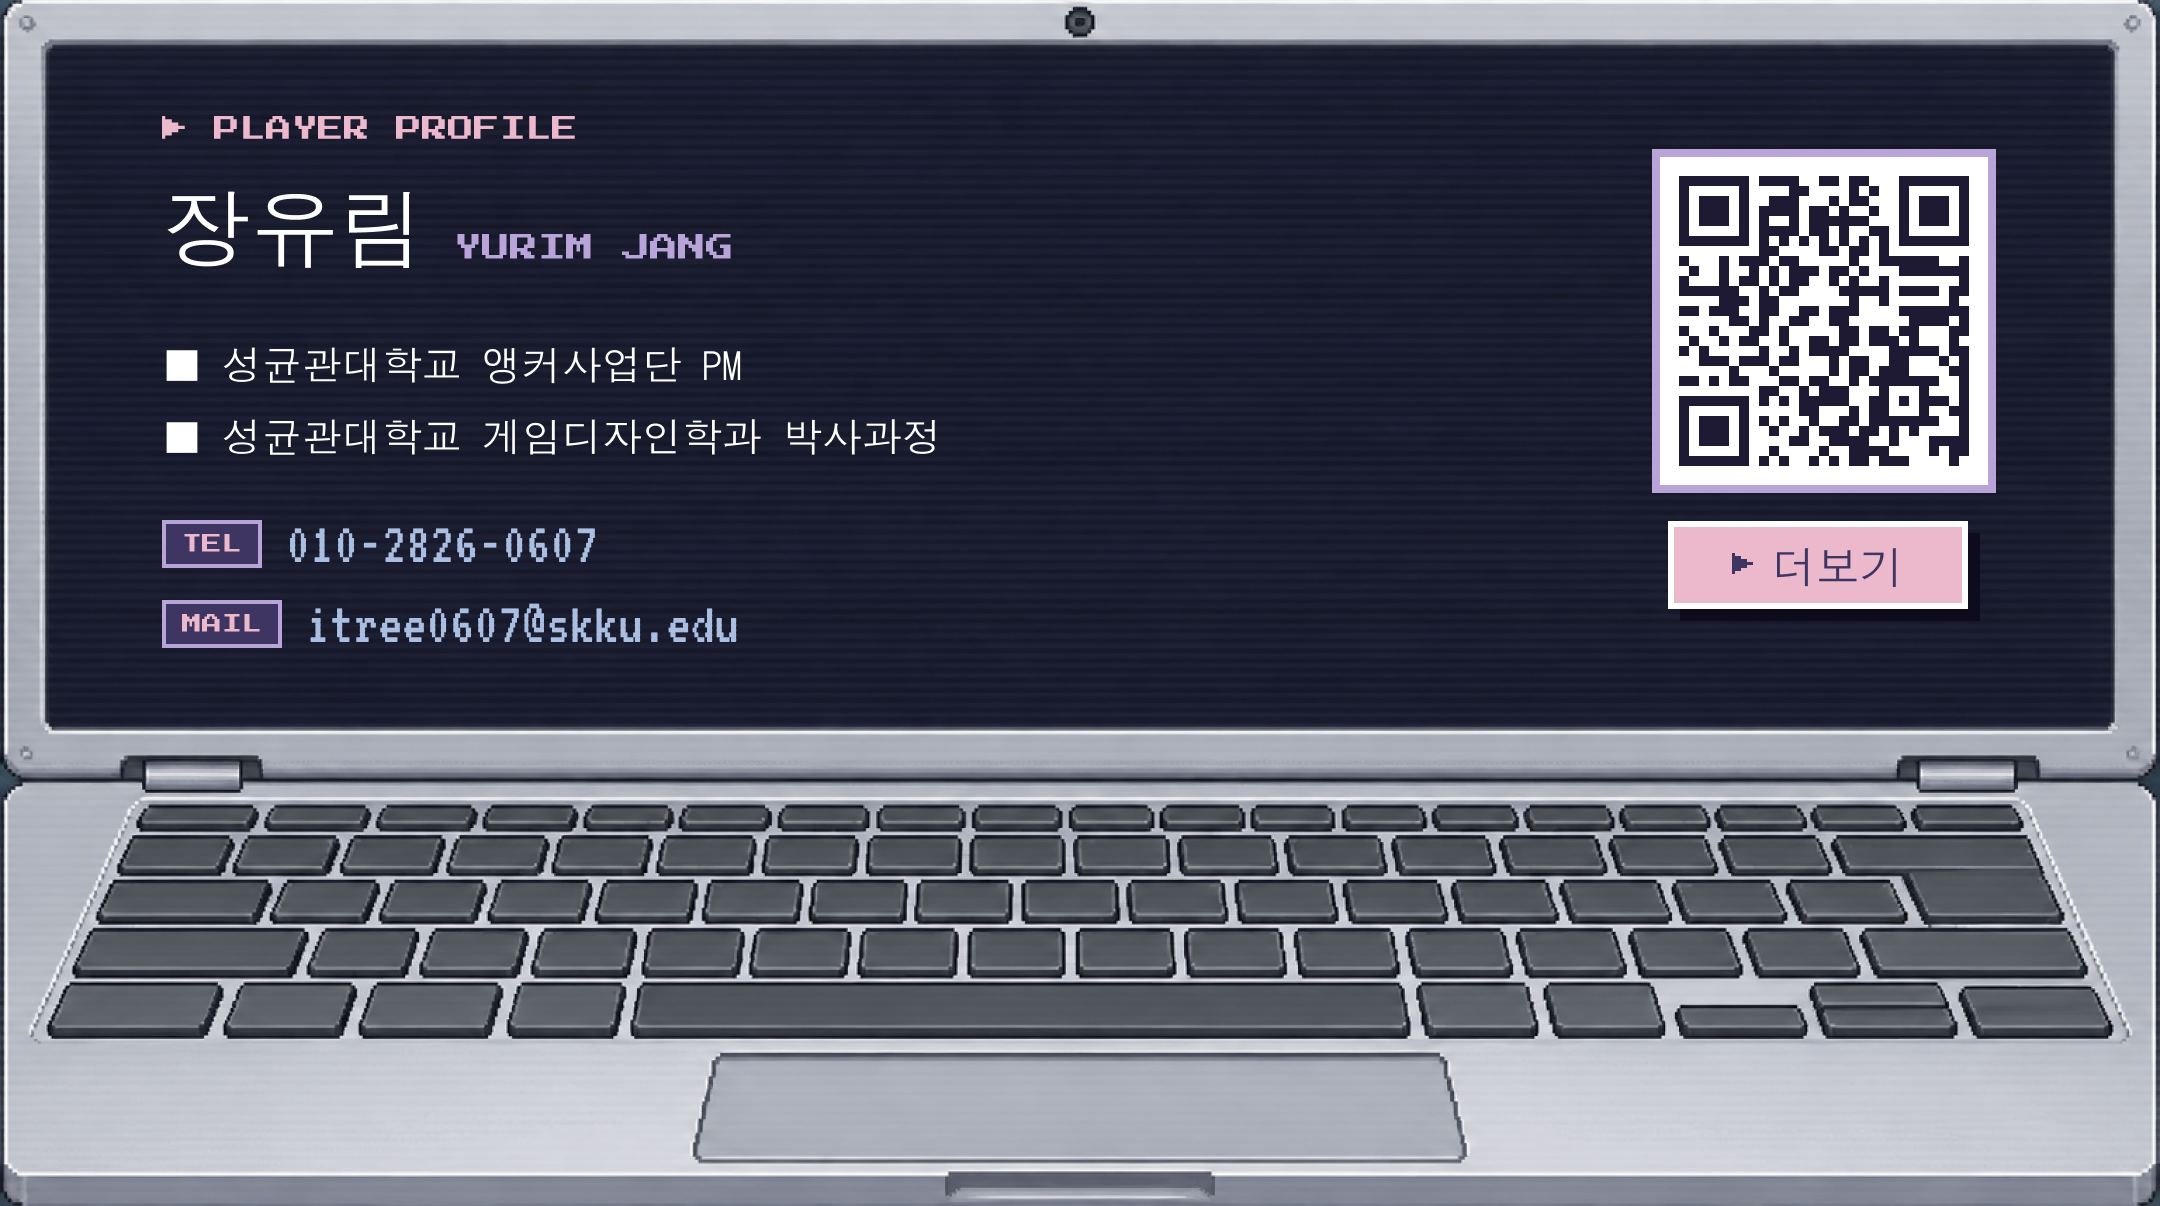
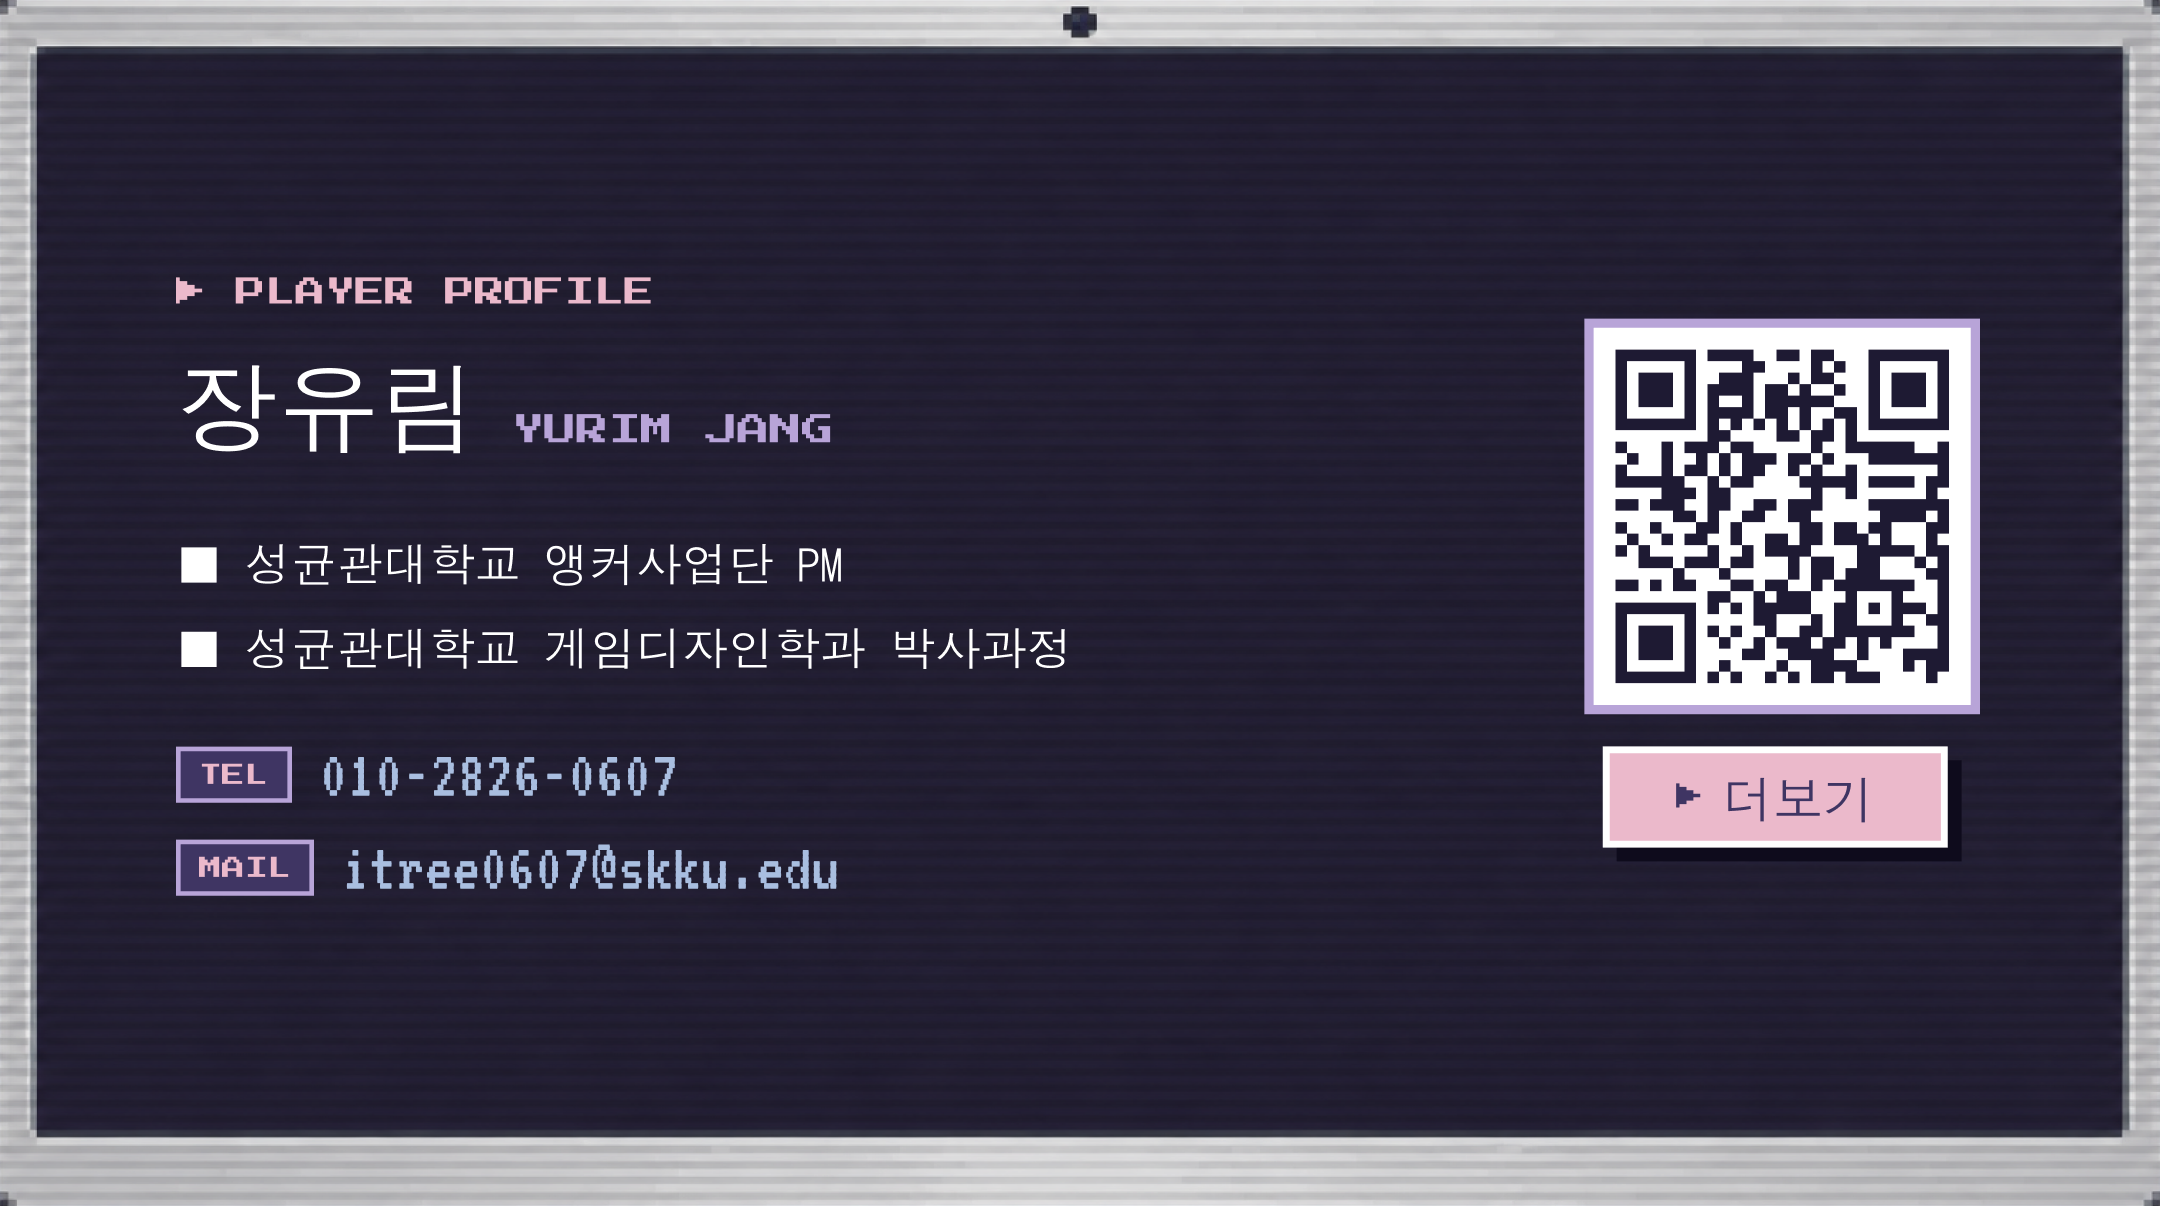
명함 앞면을 모니터만 있는 디자인으로 변경

diff --git a/src/data.js b/src/data.js
@@ -88,7 +88,7 @@
       links:[{label:'GitHub',url:'https://github.com/JangYurim0607/week6_skills_package'},{label:'A 키워드 분석(PDF)',url:'https://github.com/JangYurim0607/week6_skills_package/blob/main/A_baseline/output/keyword_analysis.pdf'},{label:'A 스토리보드(PDF)',url:'https://github.com/JangYurim0607/week6_skills_package/blob/main/A_baseline/output/storyboard.pdf'},{label:'B 키워드 분석(PDF)',url:'https://github.com/JangYurim0607/week6_skills_package/blob/main/B_skills/output/keyword_analysis.pdf'},{label:'B 스토리보드(PDF)',url:'https://github.com/JangYurim0607/week6_skills_package/blob/main/B_skills/output/storyboard.pdf'},{label:'A 프롬프트(md)',url:'https://github.com/JangYurim0607/week6_skills_package/blob/main/A_baseline/prompt.md'},{label:'B 프롬프트(md)',url:'https://github.com/JangYurim0607/week6_skills_package/blob/main/B_skills/prompt.md'},{label:'A/B 비교(md)',url:'https://github.com/JangYurim0607/week6_skills_package/blob/main/compare/COMPARISON.md'}] }
     ,
     { week:'8주차', title:'피그마로 포트폴리오 디자인: 레이아웃 3종 · 브로슈어 · 명함',
-      description:'Claude Code에 Figma 플러그인을 연결해 이 사이트의 색과 폰트를 토큰·컴포넌트로 옮기고, 모바일 웹·아이패드·Phone UI 레이아웃 3종을 그렸습니다. 로고는 Figma AI로 생성했습니다. 명함은 AI로 만든 실버 도트 노트북(앞면은 화면, 뒷면은 게임·학교 스티커가 붙은 덮개) 위에 인적 정보와 포트폴리오 QR을 얹었고, 사이트를 중심으로 한 A4 브로슈어 1장도 만들었습니다.',
+      description:'Claude Code에 Figma 플러그인을 연결해 이 사이트의 색과 폰트를 토큰·컴포넌트로 옮기고, 모바일 웹·아이패드·Phone UI 레이아웃 3종을 그렸습니다. 로고는 Figma AI로 생성했습니다. 명함은 AI로 만든 실버 도트 노트북이 명함 전체를 채우게 했고(앞면은 모니터, 뒷면은 게임·학교 스티커가 붙은 덮개), 그 위에 인적 정보와 포트폴리오 QR을 얹었고, 사이트를 중심으로 한 A4 브로슈어 1장도 만들었습니다.',
       tags:['Figma','Claude Code','Figma MCP','이미지 생성','브로슈어','명함'],
       links:[{label:'피그마 페이지',url:'https://www.figma.com/design/pBcYNrcHfAOoEClr46me2K'},{label:'프롬프트(md)',url:'https://github.com/JangYurim0607/jangyurim0607.github.io/blob/main/assignments/week8/prompts.md'},{label:'브로슈어(PDF)',url:'https://yurim-portfolio-azure.vercel.app/assignments/week8/brochure.pdf'},{label:'명함 앞면',url:'https://yurim-portfolio-azure.vercel.app/assignments/week8/card-front.png'},{label:'명함 뒷면',url:'https://yurim-portfolio-azure.vercel.app/assignments/week8/card-back.png'},{label:'로고',url:'https://yurim-portfolio-azure.vercel.app/assignments/week8/logo.png'},{label:'모바일 웹',url:'https://yurim-portfolio-azure.vercel.app/assignments/week8/layout-mobile.png'},{label:'아이패드',url:'https://yurim-portfolio-azure.vercel.app/assignments/week8/layout-ipad.png'},{label:'Phone UI',url:'https://yurim-portfolio-azure.vercel.app/assignments/week8/layout-phone-ui.png'}] }
   ];

diff --git a/assignments/week8/prompts.md b/assignments/week8/prompts.md
@@ -41,19 +41,21 @@ Minimal logo mark for a game designer and researcher named Yurim Jang. A single 
 
 요청한 방향(2차 수정 반영):
 
-> 1. 도트 스타일. 명함 자체가 노트북의 앞면·뒷면이다. 노트북이 명함을 꽉 채우고 배경은 없어야 한다. 앞면은 앞에서 살짝 위로 본 모습이라 키보드가 잘리지 않고 기울어져 보인다. 뒷면은 그냥 뒷면. 노트북 색은 실버
+> 1. 도트 스타일. 명함 자체가 노트북의 앞면·뒷면이다. 노트북이 명함을 꽉 채우고 배경은 없어야 한다. 앞면은 키보드 없이 모니터만, 뒷면은 그냥 뒷면. 노트북 색은 실버
 > 2. 인적 정보: 성균관대학교 앵커사업단 PM / 성균관대학교 게임디자인학과 박사과정 / 전화번호 / 이메일 / 포트폴리오 사이트 QR코드, 그 밑에 '더보기'라는 단어를 버튼처럼
 > 3. 뒷면: 햄스터, 친칠라, 스타듀밸리, 심즈, 마인크래프트, 배틀그라운드, 롤토체스, 성균관대학교 로고(가운데 가장 크게) 도트 스티커가 여기저기 붙어 있음
 
-### 앞면: 명함을 꽉 채운 실버 노트북 (키보드는 기울어져 보이게)
+### 앞면: 명함을 꽉 채운 실버 모니터
 
-처음에는 원근을 그대로 살렸더니 키보드 받침이 화면보다 넓어져서 명함 모서리에 배경이 생겼다. 그래서 화면과 키보드 너비를 같게 하고, 키보드 줄의 높이만 앞으로 올수록 커지게 해서 기울어진 느낌을 냈다. 이 버전은 gpt-image 모델이 지시를 더 잘 따랐다.
+키보드를 기울여 넣은 시안도 만들었지만, 최종 앞면은 모니터만 남겼다. 은색 베젤이 명함 네 변을 두르고 안쪽은 전부 화면이다.
 
 Figma `generate_image`(gpt-image-2.5-sunburst)에 넣은 프롬프트:
 
 ```
-16-bit pixel art of an open silver laptop that completely fills a wide rectangular image edge to edge, like a full-bleed business card. The laptop silhouette is exactly the image rectangle: NO background anywhere, no white, no desk, no shadow, no empty corners. Top 60% of the image: the display, its brushed-silver bezel (light silver #E6E8EE / #C9CDD6, dark grey #5A5F6B pixel outlines) touching the top, left and right edges, tiny webcam dot at top center, and a large EMPTY dark navy (#1E1A33) screen with faint scanlines and nothing on it. Bottom 40%: the whole silver keyboard deck seen tilted back from slightly above — the key rows are foreshortened (thin rows near the hinge getting taller toward the front), all keys fully visible in dark grey, a trackpad at the front center — and the deck is EXACTLY as wide as the screen so its left and right sides are the image's left and right edges and its front lip is the image's bottom edge. Nothing is cut off. Clean pixel art, no text, no logos, no watermark.
+16-bit pixel art of the display of a silver laptop, straight-on front view, that completely fills a wide rectangular image edge to edge like a full-bleed business card. ONLY the monitor: no keyboard, no hinge, no base, no stand. The silhouette is exactly the image rectangle: NO background anywhere, no white, no desk, no shadow, no empty or rounded corners. A brushed-silver aluminum bezel (light silver #E6E8EE / #C9CDD6 with dark grey #5A5F6B pixel outlines) runs along all four image edges, slightly thicker at the bottom, with a tiny webcam dot at the top center. Inside the bezel is a very large EMPTY dark navy (#1E1A33) screen with faint horizontal scanlines and nothing on it — no text, no icons, no UI. Clean pixel art, no logos, no watermark.
 ```
+
+생성된 이미지 네 모서리에 둥글게 남은 흰 픽셀은 Figma 이미지 자르기(CROP)로 6px씩 잘라 냈다.
 
 이미지 생성 모델은 한글과 전화번호를 자주 틀리게 그린다. 그래서 인적 정보는 Figma에서 비워 둔 화면 위에 텍스트로 얹었다.
 - 폰트: Press Start 2P(라벨), VT323(전화·이메일), DotumChe(한글)
@@ -71,7 +73,7 @@ Figma `generate_image`(gpt-image-2.5-sunburst)에 넣은 프롬프트:
 
 가운데 성균관대 스티커는 AI가 은행잎과 SKKU 글자로 해석해서 그린 것이다. 공식 로고 파일은 쓰지 않았다. 배틀그라운드는 3레벨 헬멧·프라이팬·보급상자로, 롤토체스는 황금 육각 타일과 펭구 꼬마 전설이로 표현했다.
 
-이전 시안(1차 Figma 디자인, 2차 라벤더 도트 모니터, 3차 배경 있는 실버 노트북)은 Figma 파일에 '(이전)' 표시로 남겨 두었다.
+이전 시안(1차 Figma 디자인, 2차 라벤더 도트 모니터, 3차 배경 있는 실버 노트북, 4차 키보드가 기울어진 노트북)은 Figma 파일에 '(이전)' 표시로 남겨 두었다.
 
 ## 5. 브로슈어 1장 (A4, PDF)
 
